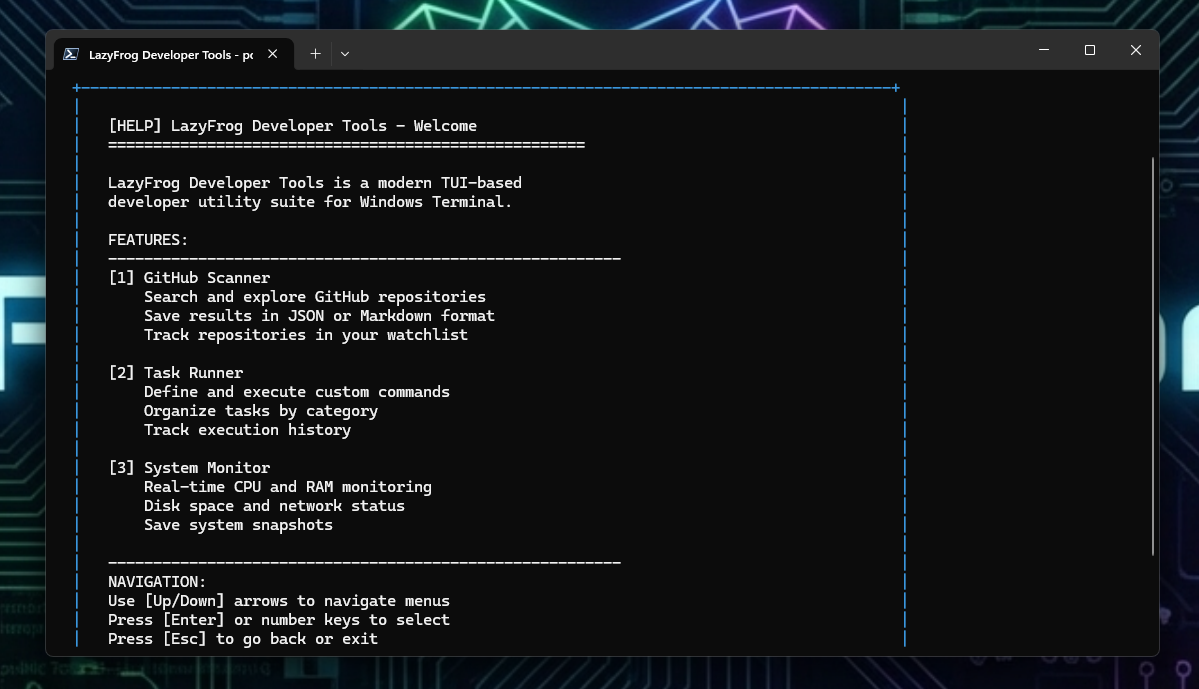
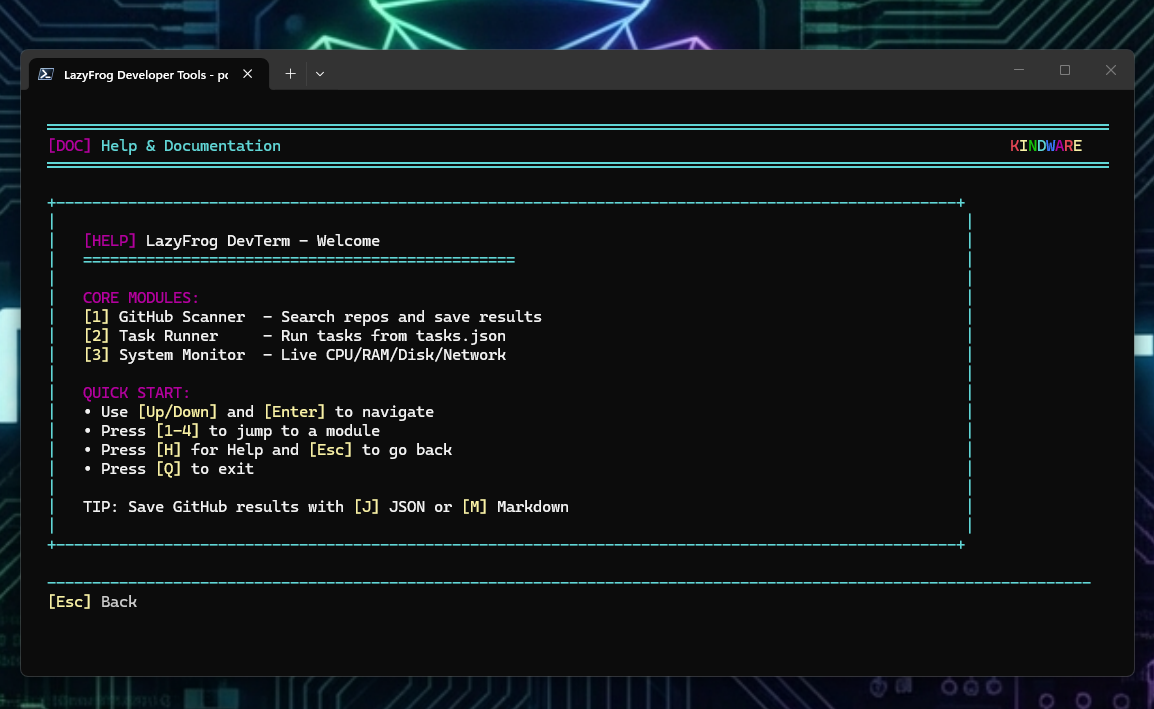
✨ v2.0.0: KINDWARE Rainbow CLI Styling
Major UI overhaul with KINDWARE branding:
- Rainbow KINDWARE ASCII logo with gradient colors
- PowerShell 7+ required for ANSI escape code support
- Rounded box corners (╭╮╯╰) on menus
- Emoji icons for menu items (🔍 📊 ⚙ ❓)
- Full rainbow color palette (Red, Yellow, Green, Cyan, Blue, Magenta)
- New status message helper functions
- Rainbow exit screen with KINDWARE branding
- Updated screenshots with new styling

diff --git a/README.md b/README.md
@@ -1,19 +1,33 @@
-# 🐸 LazyFrog DevTerm
-
-<p align="center">
-  <img src="docs/assets/MainScreenshot.png" alt="LazyFrog DevTerm" width="600"/>
-</p>
-
-<p align="center">
-  <strong>A keyboard-first terminal utility for developers who stay in the shell</strong>
-</p>
-
 <p align="center">
   <img src="https://img.shields.io/badge/PowerShell-7%2B-5391FE?style=for-the-badge&logo=powershell&logoColor=white" alt="PowerShell 7+"/>
   <img src="https://img.shields.io/badge/Platform-Windows%2010%2F11-0078D6?style=for-the-badge&logo=windows&logoColor=white" alt="Windows"/>
   <img src="https://img.shields.io/github/license/Brutus1066/LazyFrog-Kindware-DevTerm?style=for-the-badge" alt="License"/>
   <img src="https://img.shields.io/github/v/release/Brutus1066/LazyFrog-Kindware-DevTerm?style=for-the-badge&color=brightgreen" alt="Release"/>
 </p>
+
+<h1 align="center">🐸 LazyFrog DevTerm</h1>
+
+<h3 align="center">Modern Terminal Utility Suite for Developers</h3>
+
+<p align="center">
+  <em>A keyboard-first TUI for developers who stay in the shell</em>
+</p>
+
+```
+    ██╗  ██╗██╗███╗   ██╗██████╗ ██╗    ██╗ █████╗ ██████╗ ███████╗
+    ██║ ██╔╝██║████╗  ██║██╔══██╗██║    ██║██╔══██╗██╔══██╗██╔════╝
+    █████╔╝ ██║██╔██╗ ██║██║  ██║██║ █╗ ██║███████║██████╔╝█████╗
+    ██╔═██╗ ██║██║╚██╗██║██║  ██║██║███╗██║██╔══██║██╔══██╗██╔══╝
+    ██║  ██╗██║██║ ╚████║██████╔╝╚███╔███╔╝██║  ██║██║  ██║███████╗
+    ╚═╝  ╚═╝╚═╝╚═╝  ╚═══╝╚═════╝  ╚══╝╚══╝ ╚═╝  ╚═╝╚═╝  ╚═╝╚══════╝
+
+                    ◆ LazyFrog DevTerm v2.0.0
+              ━━━━━━━━━━━━━━━━━━━━━━━━━━━━━━━━━
+               🐸 Terminal Utility Suite for Devs
+               created by LazyFrog-kz | kindware.dev
+```
+
+> **🌈 KINDWARE Rainbow CLI** — PowerShell 7+ with beautiful ANSI colors!
 
 <p align="center">
   <a href="#-features">Features</a> •
@@ -26,11 +40,27 @@
 
 ---
 
+<p align="center">
+  <img src="docs/assets/MainScreenshot.png" alt="LazyFrog DevTerm" width="600"/>
+</p>
+
+---
+
 ## 💡 Why LazyFrog?
 
 **The Problem:** You're constantly switching between terminal, browser, and system tools. Opening Task Manager for a quick health check. Googling for that GitHub repo again. Hunting for that command you ran last week.
 
 **The Solution:** One TUI, all your daily tools. Search GitHub repos, run saved commands, monitor system health — all without leaving the terminal. Keyboard-driven, zero bloat, 100% offline-capable.
+
+```
+    ╭─────────────────────────────────────╮
+    │  [1] 🔍 GitHub Scanner              │
+    │  [2] ⚙  Task Runner                 │
+    │  [3] 📊 System Monitor              │
+    │  [4] ❓ Help & Docs                 │
+    │  [Q]    Quit                        │
+    ╰─────────────────────────────────────╯
+```
 
 | | |
 |---|---|
@@ -268,11 +298,11 @@ MIT License — see [LICENSE](LICENSE) for details.
 ---
 
 <p align="center">
-  <strong>LazyFrog DevTerm</strong> | <a href="https://kindware.dev">kindware.dev</a> • <a href="https://github.com/Brutus1066">GitHub</a>
+  <em>Made with 🐸 for developers who live in the terminal</em>
 </p>
 
 <p align="center">
-  Made with 🐸 by <a href="https://github.com/Brutus1066">Brutus1066</a> at <a href="https://kindware.dev">LAZYFROG-kindware.dev</a>
+  <a href="https://kindware.dev">kindware.dev</a>
 </p>
 
 <p align="center">

diff --git a/CHANGELOG.md b/CHANGELOG.md
@@ -1,5 +1,24 @@
 # Changelog
 
+## 2.0.0 - 2026-01-28
+
+### ✨ KINDWARE Rainbow CLI Styling
+- **Rainbow KINDWARE ASCII Logo** - Beautiful multi-color ASCII art header with gradient colors
+- **PowerShell 7+ Required** - Upgraded from PowerShell 5.1 to 7.0+ for ANSI color support
+- **Modern Box Drawing** - Rounded corners (╭╮╯╰) on menus and UI elements
+- **Emoji Icons** - Visual menu icons (🔍 📊 ⚙ ❓) for better UX
+- **ANSI Color System** - Full rainbow palette with Red, Yellow, Green, Cyan, Blue, Magenta
+- **Status Message Helpers** - New `Write-KindSuccess`, `Write-KindError`, `Write-KindWarning`, `Write-KindInfo` functions
+- **Rainbow Exit Screen** - Colorful KINDWARE goodbye message on exit
+
+### Changed
+- Version bumped to 2.0.0 to reflect major UI overhaul
+- Updated all documentation with KINDWARE branding
+- Cyan accent colors throughout the UI
+- Modernized header with rainbow KINDWARE styling
+
+---
+
 ## 1.2.0 - 2026-01-28
 
 ### Added
